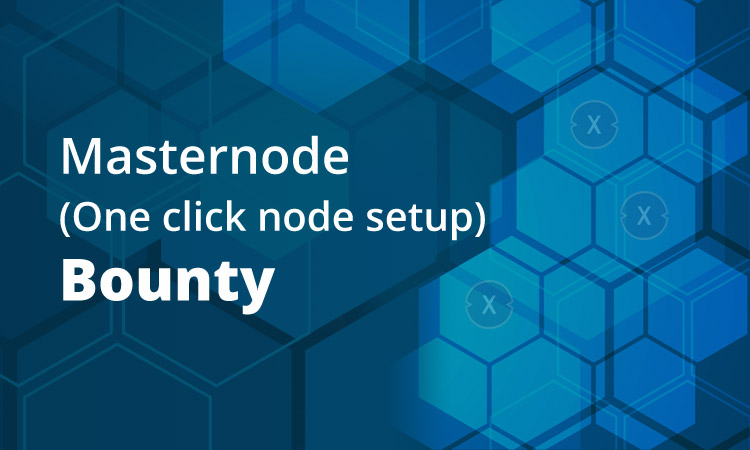
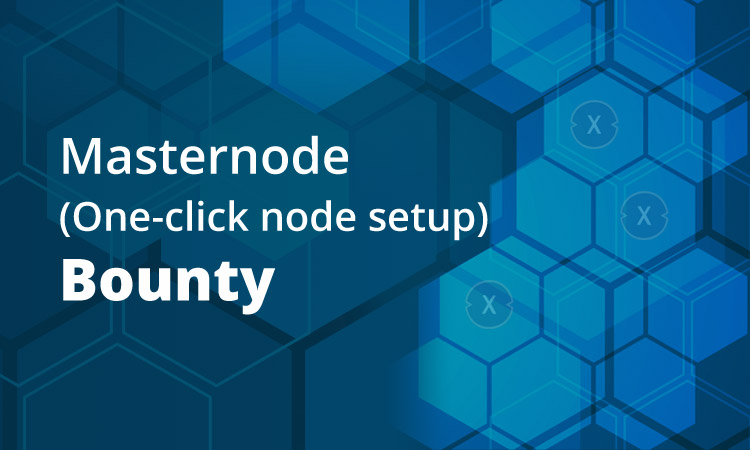
Updates bounty.php
style.css changes

Changed region(s): [[0.2147, 0.4356, 0.6747, 0.5289]]

diff --git a/assets/css/style.css b/assets/css/style.css
@@ -1474,13 +1474,14 @@ button.btn-outline-default .fa{margin-right:5px;}
 .bounty .sub-header {color:#096db0!important;padding-bottom: 10px;margin-top: 50px;text-align: left;border-bottom: 1px solid #b9b9b9;font-size: 25px;line-height:29px;}
 .bounty .sub-header.text-center {text-align:center;}
 .bounty .sub-header-small {color: #096db0!important;margin-bottom: 0px!important;padding-bottom: 10px;margin-top:0px; text-align: left;font-size: 20px;line-height: 24px;}
+.bounty .sub-header-small.no-color {color: inherit!important;font-weight:600;}
 .references-box{/*background:#f0f0f0;*/background:#FFFFFF;padding:30px;margin-top:30px;border-radius:5px;-webkit-box-shadow: 0px 1px 6px 0px rgba(0,0,0,0.05);-moz-box-shadow: 0px 1px 6px 0px rgba(0,0,0,0.05);box-shadow: 0px 1px 6px 0px rgba(0,0,0,0.05);}
 .bounty .references-box .sub-header{margin-top:0px;}
 .bounty a{/*color:#002752;*/text-decoration:underline;}
 .bounty a:hover{/*color:#096db0;*/color: #337ab7;text-decoration:none;}
 .bounty .text-bg-grey{/*background-color:#f2f2f2;*/background-color:#e9f0f7;padding:5px;font-size:14px;}
 
-.bounty .rewardBox{/*background:#f6f6f6;*/background:#FFFFFF;-webkit-box-shadow: 0px 1px 6px 0px rgba(0,0,0,0.05);-moz-box-shadow: 0px 1px 6px 0px rgba(0,0,0,0.05);box-shadow: 0px 1px 6px 0px rgba(0,0,0,0.05);padding:20px 15px 20px 15px;height:100%;}
+.bounty .rewardBox{/*background:#f6f6f6;*/border:1px solid #eae8e8;border-radius:4px;background:#FFFFFF;-webkit-box-shadow: 0px 1px 6px 0px rgba(0,0,0,0.05);-moz-box-shadow: 0px 1px 6px 0px rgba(0,0,0,0.05);box-shadow: 0px 1px 6px 0px rgba(0,0,0,0.05);padding:20px 15px 20px 15px;height:100%;}
 .bounty .rewardBox h1{font-size:20px;color:#c88b30;font-weight:500;text-align:center;text-transform:none;margin-top:0px;margin-bottom:10px;padding-bottom:10px;border-bottom:2px solid #FFFFFF;}
 .bounty .rewardBox p{text-align:center;margin-bottom:0px!important;}
 .bounty .rewardBox p.highlight{font-size:14px;text-align:center;margin-bottom:0px!important;background-color:#f6f6f6;margin-top:15px;padding:4px;color:#096db0!important;line-height:16px;}
@@ -1503,7 +1504,7 @@ button.btn-outline-default .fa{margin-right:5px;}
 .bounty-box .content p {font-size:14px;line-height:20px;min-height:165px;margin-bottom:15px;}
 .bounty-box .btn-block {padding: 0px 15px;justify-content: space-around;width: 100%;  position: absolute;right: 0;bottom: 5px;left: 0;}
 .bounty-box .btn-block .btn-hover {padding: 8px 0px;flex-grow: 1;width:49.2%;margin: 0px;}
-.btn-block.no-width {width: inherit;}
+.btn-block.no-width {width: inherit;display: inline;}
 
 /*.bounty-box .content .progress-labels {border-top:1px dashed #e3e7ed;border-bottom:1px dashed #e3e7ed;padding:8px;margin-bottom:15px;background:rgba(249, 250, 252, 0.5);}
 .bounty-box .content .progress-labels .timer{font-size:12px;color:#a2a2a2;font-weight:600;}
@@ -1529,7 +1530,7 @@ button.btn-outline-default .fa{margin-right:5px;}
 .modal-dialog.bounty-modal {max-width: 825px;width:auto;}
 .modal-dialog.bounty-modal .modal-title {line-height: 30px;padding-right: 25px;}
 .modal .bounty-modal button.close {font-size: 28px;color:#25aae1;margin-right: 0px;}
-.modal .bounty-modal .modal-body {background: #f6f6f6;padding: 15px 25px;overflow-x: hidden;overflow-y: auto;max-height: 425px;}
+.modal .bounty-modal .modal-body {background: #fbfafa;padding: 15px 25px;overflow-x: hidden;overflow-y: auto;max-height: 425px;}
 .modal .bounty-modal .modal-body a {font-weight:700;}
 .modal .bounty-modal .modal-body .bounty p {margin: 0 0 15px;}
 .modal .bounty-modal .modal-body .bounty .linkbox {padding:15px;background: rgba(48, 117, 238, 0.1);margin-bottom:15px;}
@@ -2087,12 +2088,11 @@ button.btn-outline-default .fa{margin-right:5px;}
     padding-bottom: 0px; 
   }
 
-  .exsmall
-  {font-size: 14px !important}
-.small, small {
-    font-size: 100%;
-}
-  .smcol
+.vsmall {font-size: 12px !important}
+.exsmall {font-size: 14px !important}
+.small, small {font-size: 100%;}
+
+.smcol
   {
     padding:0;
     text-align: center;

diff --git a/bounty.php b/bounty.php
@@ -29,7 +29,7 @@ include('inc/header.php') ?>
                         <div class="content">
                             <h3>Masternode (One-click node setup) Bounty</h3>
                             <h4 class="highlight small">Up to 140% of technical integration cost</h4>
-                            <p class="text-muted">One-click node setup on AWS, Azure, Oracle Cloud, IBM cloud.</p>
+                            <p class="text-muted">Create easy One-click XinFin-Node setup on AWS, Azure, Oracle Cloud, IBM cloud.</p>
 							<!--<div class="progress-labels flex-container space-between"><div class="timer pull-left"><img src="assets/images/timer.png" /><span>STATUS</span></div><span class="status pull-right">RUNNING</span></div>-->
                         </div>
                         <div class="btn-block mb-1">
@@ -350,8 +350,76 @@ include('inc/header.php') ?>
                         </div>
                         <div class="modal-body">
                             <div class="bounty">
-                                <p>One-click node setup on AWS, Azure, Oracle Cloud, IBM cloud.</p>
-                                <p>This would also include analysis related to information security and safety of store of value.</p>
+                                <p class="mb-0"><strong>Purpose:</strong> To Create an easy One-click XinFin-Node setup on AWS, Azure, Oracle Cloud, IBM cloud. <span class="vsmall">(From the command-based Masternode setup method. Reference steps after the instruction)</span></p>
+                                <p class="sub-header-small mt-3 mb-2">Function covered under one click XinFin Node setup:</p>
+                                <p><strong>STEP 1:</strong> Add or Copy Updated XinFin-Node Docker file to the Cloud provider like AWS, Azure, Oracle, or IBM.</p>
+                                <p>Clone repository command:</p>
+                                <pre><code>git clone https://github.com/XinFinOrg/XinFin-Node.git</code></pre>
+                                <p><strong>Step 2.</strong> Install XinFin-Node using command:</p>
+                                <pre><code>sudo ./install_docker.sh</code></pre>
+                                <p><strong>Step 3:</strong> Ask for required information like Node_Name and email.</p>
+                                <p><strong>Step 4:</strong> Start node using command:</p>
+                                <pre>sudo docker-compose -f docker-services.yml up -d</pre>
+                                
+                                <p class="sub-header-small no-color mt-3 mb-2">Reference shell scripts for the XinFin-Node:</p>
+                                <p><a href="https://github.com/XinFinOrg/XinFin-Node/blob/master/install_docker.sh" target="_blank" class="fw-4">install_docker.sh</a></p>
+                                <p><a href="https://github.com/XinFinOrg/XinFin-Node/blob/master/start-node.sh" target="_blank" class="fw-4">Start Node</a></p>
+                                <p><a href="https://github.com/XinFinOrg/XinFin-Node/blob/master/bootstrap.sh" target="_blank" class="fw-4">bootstrap</a></p>
+                                
+                                <p class="link-break-out mt-3"><span class="sub-header-small no-color">Docker file, Commands, Howto steps, .sh script available at:</span> <a href="https://github.com/XinFinOrg/XinFin-Node" target="_blank" class="fw-4">https://github.com/XinFinOrg/XinFin-Node</a></p>
+                                
+                                <p class="sub-header-small no-color mt-3">Reference Steps:</p>
+                                <p>Cloud provider IndSoft.net already setup One-click XinFin-Node setup. ( <a href="https://indsoft.net/blog/deploy-a-nodejs-and-expressjs-app-on-indsoft-system-cloud-with-nginx/" target="_blank" class="fw-4">ref URL</a> and <a href="https://www.youtube.com/watch?v=_NbwZs5muaY&feature=youtu.be" target="_blank" class="fw-4">ref video</a> )</p>
+                                
+                                <p class="sub-header-small no-color mt-3">Reference:</p>
+                                <p>Website and information resource to setup masternode: <a href="https://xinfin.org/setup-masternode" target="_blank" class="fw-4">https://xinfin.org/setup-masternode</a></p>
+                                
+                                <p class="sub-header-small no-color mt-3">Other tip:</p>
+                                <p>Add XinFin-Node Dockers file to the marketplace like <a href="https://aws.amazon.com/marketplace/search/results?x=0&y=0&searchTerms=blockchain+" target="_blank" class="fw-4">AWS Marketplace</a>. This option allows an easy Drag and Drop option to setup masternode.</p>
+                                
+                                
+                                <p class="sub-header mt-5 mb-3">Command Method to Setup Masternode environment</p>
+
+                                <p class="sub-header-small no-color pb-3">CentOS or RedHat Enterprise Linux (latest release) or Ubuntu (15.04+) supported</h3>
+                                <p class="mb-1"><strong>Clone repository</strong></p>
+                                <pre><code>git clone https://github.com/XinFinOrg/XinFin-Node.git</code></pre>
+                                <p>Enter <code>XinFin-Node</code> directory</p>
+                                <pre><code>cd XinFin-Node</code></pre>
+
+                                <p class="mt-3 mb-1"><strong>Step 1: Install docker & docker-compose</strong></p>
+                                <pre><code>sudo ./install_docker.sh</code></pre>
+
+                                <p class="mt-3 mb-1"><strong>Step 2: Update .env file with details</strong></p>
+                                <p class="text-left link-break-out">Create <code>.env</code> file by using the sample - <code>.env.example</code></p>
+                                <p class="link-break-out">Enter your node name in the INSTANCE_NAME field.</p>
+                                <p class="link-break-out">Enter your email address in the CONTACT_DETAILS field.</p>
+                                <pre>cp env.example .env<br />nano .env</pre>
+
+                                <p class="mt-3 mb-1"><strong>Step 3: Start your Node</strong></p>
+                                <p>Run:</p>
+                                <pre>sudo docker-compose -f docker-services.yml up -d</pre>
+                                <p class="link-break-out">
+                                    You should be able to see your node listed on this page: <a href="http://xinfin.network" target="_blank" class="fw-4">http://xinfin.network</a> Select Menu "Switch to TestNet" for Test Network and Select "Switch to
+                                    LiveNet" to check Live Network Stats.
+                                </p>
+                                <p>Your Coinbase address can be found in xdcchain/coinbase.txt file.</p>
+
+                                <p>To stop the node or if you encounter any issues use:</p>
+                                <pre>sudo docker-compose -f docker-services.yml down</pre>
+
+                                <p class="mb-1"><strong>Upgrade</strong></p>
+                                <p>To upgrade please use the following commands</p>
+                                <pre><code>sudo docker-compose -f docker-services.yml down
+sudo ./upgrade.sh
+sudo docker-compose -f docker-services.yml up -d
+</code></pre>
+
+                                <p class="mb-1"><strong>Troubleshooting</strong></p>
+                                <p>If you are having problems with Setup, the first step is to collect more information to accurately characterize the problem. From there, it can be easier to figure out a root cause and a fix.</p>
+                                <p class="link-break-out">Please drop a message with all possible detail and screenshot at the Community Support forum: <a href="http://xinfin.Net" target="_blank" class="fw-4">http://xinfin.Net</a></p>
+                                <p class="link-break-out">Telegram Community: <a href="https://t.me/XinFinDevelopers" target="_blank" class="fw-4">https://t.me/XinFinDevelopers</a></p>
+                                <p class="link-break-out">Slack Community: <a href="https://xinfin-public.slack.com/messages/CELR2M831/" target="_blank" class="fw-4">https://xinfin-public.slack.com/messages/CELR2M831/</a></p>
+                                
                                 <div class="btn-block mt-3 mb-1">
                                     <a href="https://forms.gle/e8EyGLLpBPw29WnC8" target="_blank">
                                         <button class="btn-hover color-1 btn-block no-width">Apply For Bounty</button>
